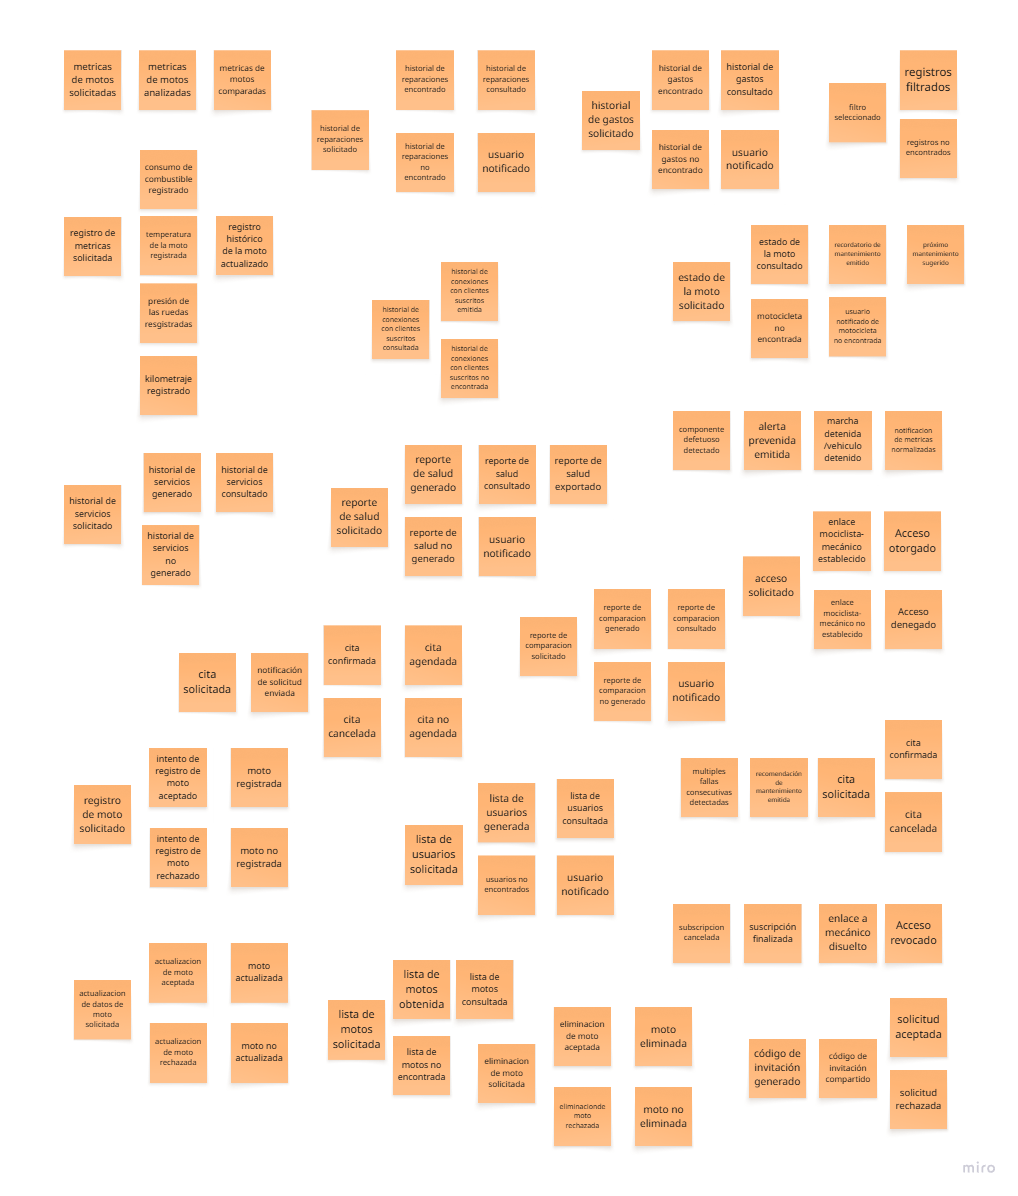
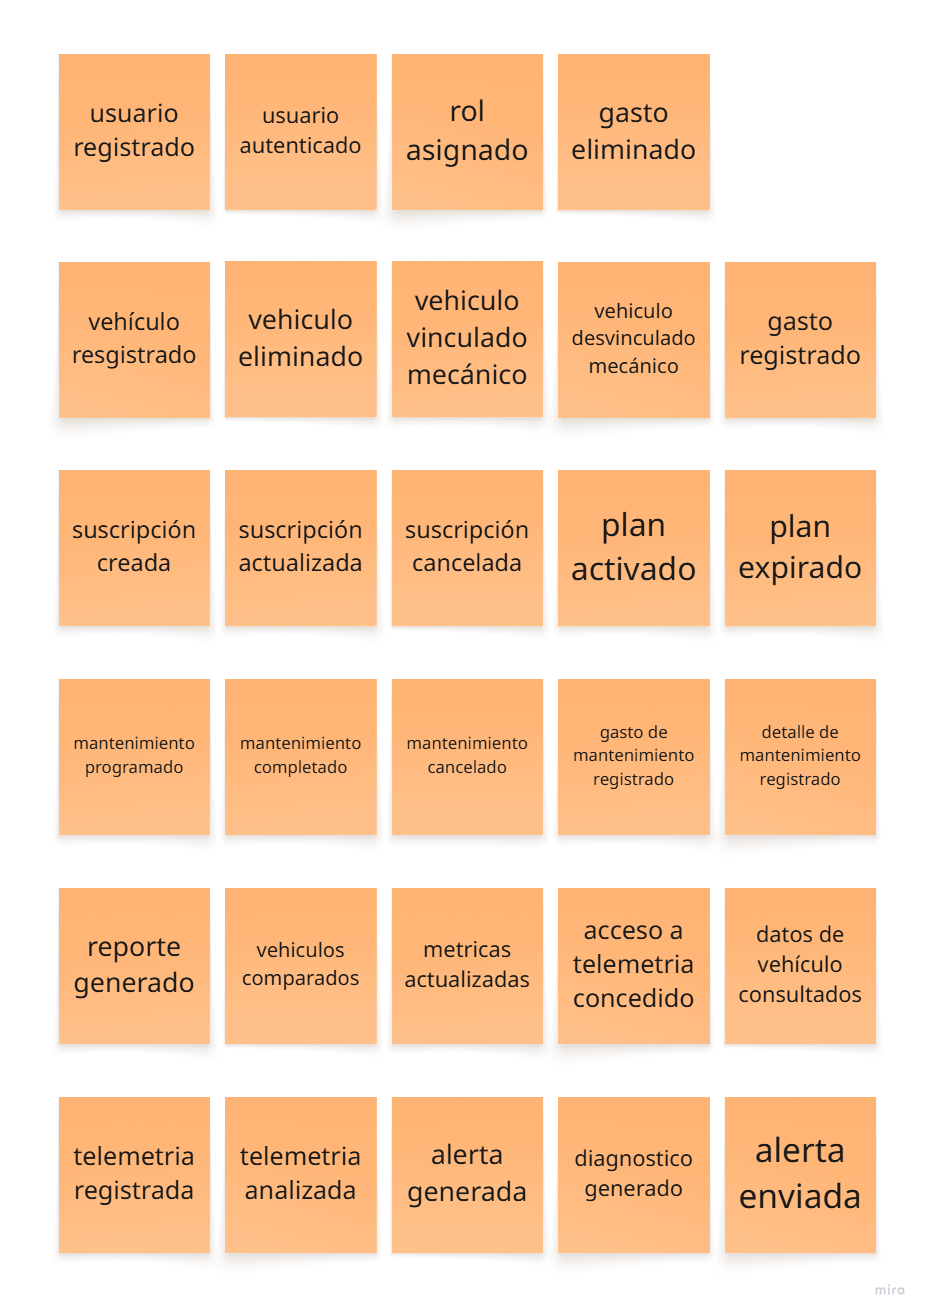
fix: fix event storming and big picture event storming.

diff --git a/README.md b/README.md
@@ -1117,29 +1117,17 @@ En esta sección se presentan los Empathy Mapping por cada segmento objetivo def
 
 ### 2.4 Big Picture EventStorming
 
-**1. Definir eventos:**
+El Big Picture Event Storming es la fase inicial y colaborativa del Domain-Driven Design (DDD) Estratégico. Su propósito es que todo el equipo obtenga una comprensión común y de alto nivel del dominio, identificando los procesos clave, los flujos transaccionales y las áreas de riesgo. Al enfocarse en los Eventos de Dominio, logramos construir una línea de tiempo que representa la totalidad del negocio. Este proceso es la base sobre la cual se descubren las fronteras de los Bounded Contexts.
 
-<img src="images/chapter-2/event-storming-1.png" alt="Event Storming 1" />
+Esta imagen muestra la primera aproximación visual del dominio. Nos enfocamos exclusivamente en los Eventos de Dominio (notas naranjas), los cuales representan hechos del pasado relevantes para el negocio (ej., usuario registrado, vehículo registrado, mantenimiento completado). Este artefacto garantiza que todo el equipo comparte el mismo Lenguaje Ubicuo sobre lo que realmente importa en el sistema.
 
-**2. Definir comandos y agentes**
+<img src="images/chapter-2/event-storming-1.png" alt="Big Picture Event Storming"/>
 
-<img src="images/chapter-2/event-storming-2.png" alt="Event Storming 2" />
+Al añadir los Actores (notas amarillas) y los Comandos (notas azules), convertimos el flujo de hechos en un flujo transaccional completo. Esta etapa es crucial porque: 
+1) Identifica Responsabilidades: Aclaramos el rol (Motociclista, Mecánico) que ejecuta la acción (ej., el Motociclista es el Actor que emite el Comando Registrar Vehículo). 2
+2) Establece la Intención: Se define el Comando (la intención de la acción) que, de ser exitoso, resulta en un Evento. Este mapeo expuso claramente las interacciones directas del usuario con el sistema, sirviendo como base para el descubrimiento de los Bounded Contexts transaccionales.
 
-**3. Definir políticas**
-
-<img src="images/chapter-2/event-storming-3.png" alt="Event Storming 3" />
-
-**4. Definir vistas**
-
-<img src="images/chapter-2/event-storming-4.png" alt="Event Storming 4" />
-
-**6. Agregados**
-
-<img src="images/chapter-2/event-storming-5.png" alt="Event Storming 5" />
-
-**7. Bounded context**
-
-<img src="images/chapter-2/event-storming-6.png" alt="Event Storming 6" />
+<img src="images/chapter-2/event-storming-2.png" alt="Big Picture Event Storming"/>
 
 ### 2.5 Ubiquitous Language
 
@@ -1288,62 +1276,46 @@ En esta sección se aborda el diseño de la arquitectura desde una perspectiva e
 
 #### 4.1.1 Design-Level EventStorming
 
-Para trasladar la estrategia al plano operativo, se utiliza EventStorming como técnica colaborativa de modelado. Esta metodología, centrada en la identificación de eventos de dominio, facilita la exploración profunda del negocio y la detección de flujos críticos de información. A través de dinámicas visuales y participativas, se descubren los límites naturales del dominio y se modelan las interacciones entre actores, comandos y proyecciones. El objetivo es traducir la visión estratégica en un diseño claro, alineado con el lenguaje ubicuo y la realidad operativa del sistema.
+El EventStorming de Nivel de Diseño es la evolución directa del modelo de Big Picture. El objetivo es pasar del entendimiento general a un modelo táctico y ejecutable que exponga cómo la lógica del negocio debe ser codificada. Al introducir los conceptos de Policies, Vistas de Lectura (Read Models) y, crucialmente, los Agregados, se establece el modelo conceptual que servirá como base para la arquitectura de microservicios.
+
+Esta etapa enriqueció el timeline con dos elementos clave: Policies (notas moradas) y Vistas de Lectura (Read Models o Views, notas verdes). Las Policies modelan la lógica de reacción automática que ocurre sin intervención humana. Las Vistas de Lectura se identificaron como los modelos de datos optimizados para la consulta que los Actores utilizan.
+
+<img src="images/chapter-4/event-storming-1.png" alt="Design Level EventStorming">
+
+El Agregado es la decisión de diseño más importante en esta fase. Se introdujo una nota amarilla clara sobre los comandos para identificar el Agregado (la entidad transaccional, ej., Vehículo, Suscripción) que es responsable de recibir el Comando y validar las reglas de negocio antes de emitir el Evento.
+
+<img src="images/chapter-4/event-storming-2.png" alt="Design Level EventStorming">
+
+El modelo táctico se consolidó al agrupar todos los elementos alrededor de su Agregado central. Las fronteras se dibujaron para aislar el Lenguaje Ubicuo y garantizar que la consistencia del Agregado se mantenga dentro de su contexto. Este resultado final es el esquema táctico completo, que expone seis Contextos Delimitados candidatos listos para la siguiente fase de descubrimiento y diseño.
+
+<img src="images/chapter-4/event-storming-3.png" alt="Design Level EventStorming">
 
 ##### 4.1.1.1 Candidate Context Discovery
 
-Tras la sesión de EventStorming, aplicando las técnicas de start-with-value y look-for-pivotal-events, el equipo identificó y agrupó los principales eventos del dominio en bounded contexts candidatos. A continuación, se describen los bounded contexts definidos:
+Una vez que se estableció el modelo táctico detallado mediante EventStorming, el siguiente paso fue aislar las fronteras de los Contextos Delimitados (Bounded Contexts/BCs). Estos BCs actúan como los límites de los futuros microservicios, asegurando que el Lenguaje Ubicuo y los Agregados de cada sección sean consistentes e inconfundibles.
 
-**1. Reportes**
+El proceso se llevó a cabo utilizando una combinación de las siguientes técnicas:
 
-* **Propósito:** Elaboración de reportes de métricas de las motos y análisis comparativo de su desempeño.
-* **Responsabilidades:**
-  * Generar reportes periódicos de métricas.
-  * Comparar métricas históricas y actuales.
-  * Producir reportes de métricas actualizadas en tiempo real.
-* **Eventos clave:** MetricasGeneradas, ReporteSolicitado, ReporteComparado.
-* **Valor para el negocio:** Provee visibilidad y soporte a la toma de decisiones del dueño de la moto y de los talleres.
+Start-with-Value: Esta técnica permitió identificar los BCs Core (Núcleo), que son la fuente de valor diferenciador del negocio. Se priorizó el aislamiento de Suscripción y Bienestar del Vehículo, ya que la conexión contractual y el valor predictivo de la telemetría son la propuesta única de Bykerz.
 
-**2. Historiales**
+Start-with-Simple: Se utilizó esta técnica para dividir el timeline en flujos de trabajo secuenciales, creando modelos con un propósito único. Esto llevó a la separación clara de Gestión de Vehículos de Mantenimiento y Operaciones.
 
-* **Propósito:** Mantener un registro consolidado de todas las actividades y gastos relacionados con la moto.
-* **Responsabilidades:**
-  * Historial de servicios de los mecánicos.
-  * Historial de gastos asociados.
-  * Historial de reparaciones realizadas.
-  * Historial de clientes atendidos (para mecánicos).
-* **Eventos clave:** ServicioRegistrado, GastoRegistrado, ReparacionFinalizada.
-* **Valor para el negocio:** Ofrece trazabilidad y respaldo de la información para usuarios y mecánicos.
+Look-for-Pivotal-Events: Se buscaron los Eventos pivote que denotan un cambio en la responsabilidad, como el acceso a telemetria concedido, que actúa como el punto de transferencia de control desde el BC Suscripción hacia el BC Bienestar del Vehículo.
 
-**3. Suscripción**
+La agrupación se realizó encerrando todos los elementos tácticos (Comandos, Agregados, Politicas, Vistas) en contenedores de color, asegurando que cada Agregado principal reside en un único Bounded Context.
 
-* **Propósito:** Gestionar la relación contractual y de conexión entre dueños de motos y mecánicos.
-* **Responsabilidades:**
-  * Manejar las suscripciones activas.
-  * Administrar vínculos de servicio (mecánico ↔ dueño de moto).
-  * Controlar renovaciones o cancelaciones de suscripciones.
-* **Eventos clave:** SuscripcionCreada, SuscripcionCancelada, MecanicoAsignado.
-* **Valor para el negocio:** Garantiza un flujo de ingresos estable y facilita la conexión entre oferta (mecánicos) y demanda (dueños).
+La imagen evidencia el resultado final del proceso de Candidate Context Discovery. Se lograron identificar seis Contextos Delimitados candidatos, basados en la unicidad de su Lenguaje Ubicuo y sus Agregados principales: 
+1. 
+2. IAM (Usuario)
+2. Suscripción (Suscripción)
+3. Gestión de Vehículos (Vehículo)
+4. Mantenimiento y Operaciones (Mantenimiento)
+5. Bienestar del Vehículo (Análisis de Telemetría)
+6. Reportes (Vistas de Lectura). 
 
-**4. Bienestar de Vehículos**
+Esta clara delimitación de fronteras garantiza que los futuros equipos de desarrollo tendrán un enfoque claro en su modelo, sin dependencias internas confusas.
 
-* **Propósito:** Monitorear y gestionar el estado general de la moto a partir de métricas técnicas.
-* **Responsabilidades:**
-  * Registrar y controlar métricas en tiempo real.
-  * Generar alertas preventivas de mantenimiento.
-  * Calcular el estado de salud general del vehículo.
-* **Eventos clave:** MetricaRegistrada, AlertaGenerada, EstadoActualizado.
-* **Valor para el negocio:** Permite anticipar fallas y garantizar mayor seguridad y durabilidad del vehículo.
-
-**5. Gestión de Vehículos**
-
-* **Propósito:** Administrar la información básica y de registro de cada moto en el sistema.
-* **Responsabilidades:**
-  * Registro de nuevas motos.
-  * Acceso a datos técnicos y de propiedad.
-  * Actualización de datos generales del vehículo.
-* **Eventos clave:** VehiculoRegistrado, DatosVehiculoActualizados.
-* **Valor para el negocio:** Provee la base de datos central sobre la cual interactúan los demás contextos.
+<img src="images/chapter-4/event-storming-3.png" alt="Design Level EventStorming">
 
 ##### 4.1.1.2 Domain Message Flows Modeling
 
@@ -1411,25 +1383,29 @@ Tras la sesión de EventStorming, aplicando las técnicas de start-with-value y 
 
 En esta sección se desarrollan los Bounded Context Canvases correspondientes a los contextos delimitados previamente durante el proceso de Candidate Context Discovery. El objetivo principal de este apartado es detallar, para cada contexto, los criterios de diseño que permitan comprender su propósito, límites de responsabilidad, capacidades clave, dependencias y reglas de negocio asociadas.
 
-**Reportes**
+**IAM (Identity and Access Management)**
 
-<img src="images/chapter-4/reports-bc-canvas.png" alt="Reportes Bounded Context Canvas">
+<img src="images/chapter-4/bc-canvas-iam.png" alt="Bounded Context Canvas IAM (Identity and Access Management)">
 
-**Historiales**
+**Maintenance and Operations**
 
-<img src="images/chapter-4/historial-bc-canvas.png" alt="Historiales Bounded Context Canvas">
+<img src="images/chapter-4/bc-canvas-maintenance-and-operations.png" alt="Bounded Context Canvas Maintenance and Operations">
 
-**Suscripción**
+**Reports**
 
-<img src="images/chapter-4/subscription-bc-canvas.png" alt="Suscripción Bounded Context Canvas">
+<img src="images/chapter-4/bc-canvas-reports.png" alt="Bounded Context Canvas Reports">
 
-**Bienestar de Vehículos**
+**Subscription**
 
-<img src="images/chapter-4/health-bc-canvas.png" alt="Bienestar de Vehículos Bounded Context Canvas">
+<img src="images/chapter-4/bc-canvas-subscription.png" alt="Bounded Context Canvas Subscription">
 
-**Gestión de Vehículos**
+**Vehicle Management**
 
-<img src="images/chapter-4/vehicle-management-bc-canvas.png" alt="Gestión de Vehículos Bounded Context Canvas">
+<img src="images/chapter-4/bc-canvas-vehicle-management.png" alt="Bounded Context Canvas Vehicle Management">
+
+**Vehicle Wellness**
+
+<img src="images/chapter-4/bc-canvas-vehicle-wellness.png" alt="Bounded Context Canvas Vehicle Wellness">
 
 #### 4.1.2 Context Mapping
 
